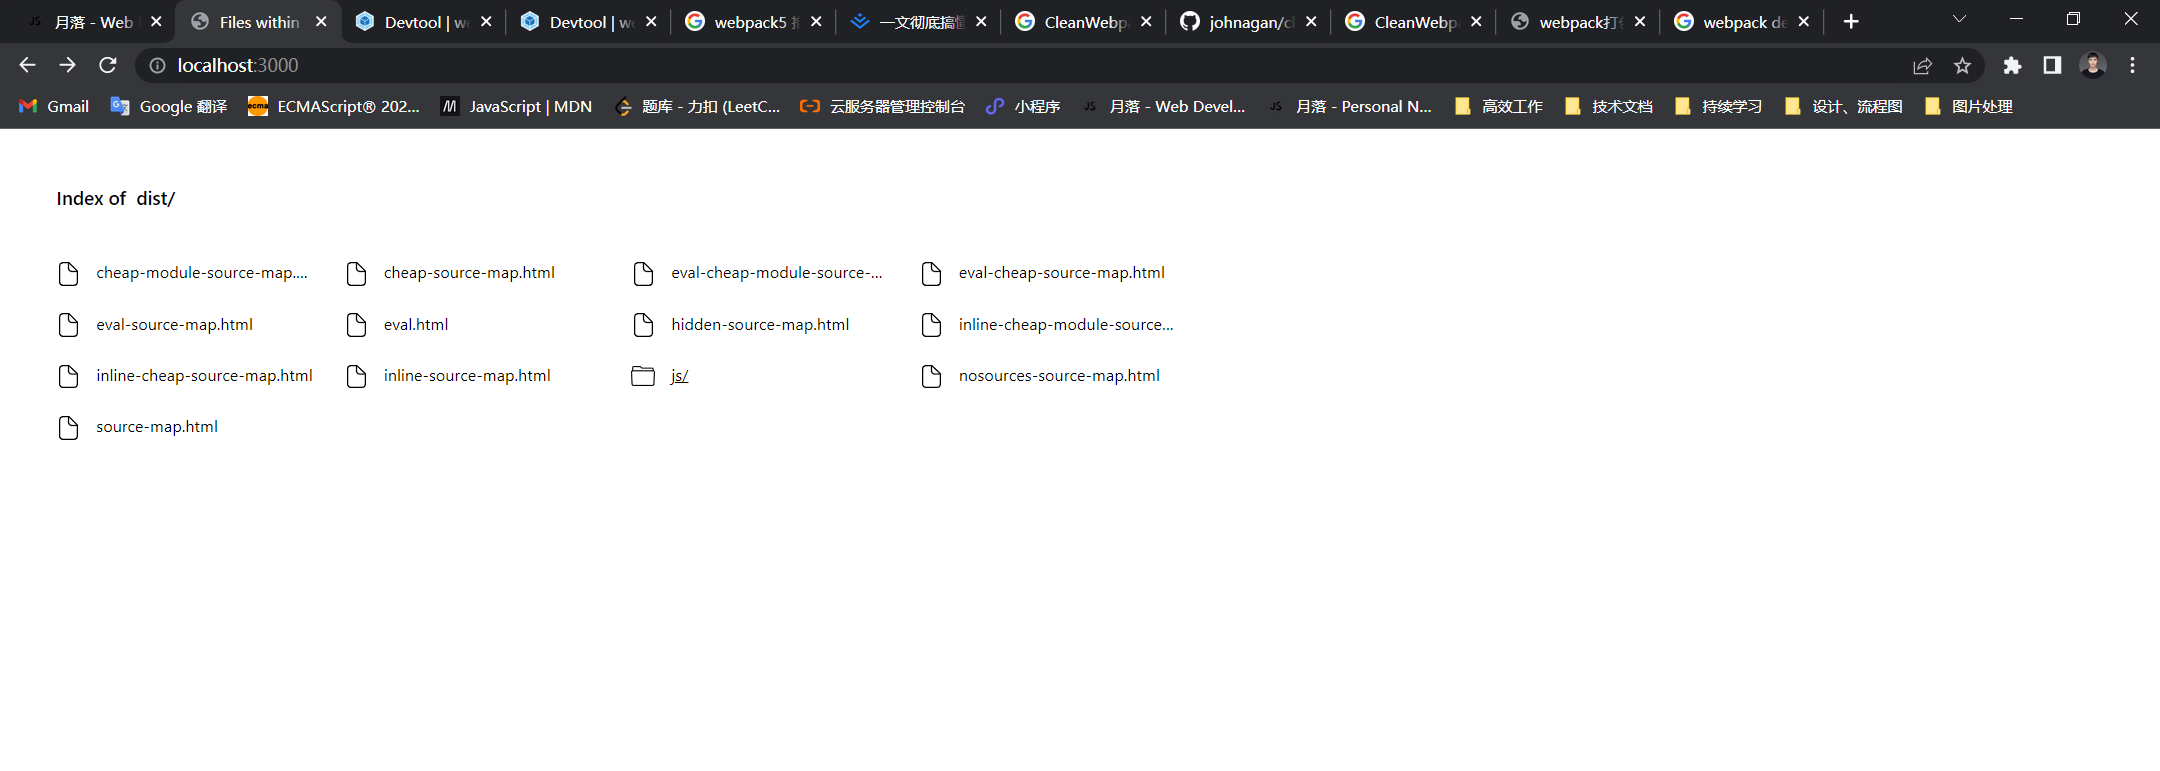
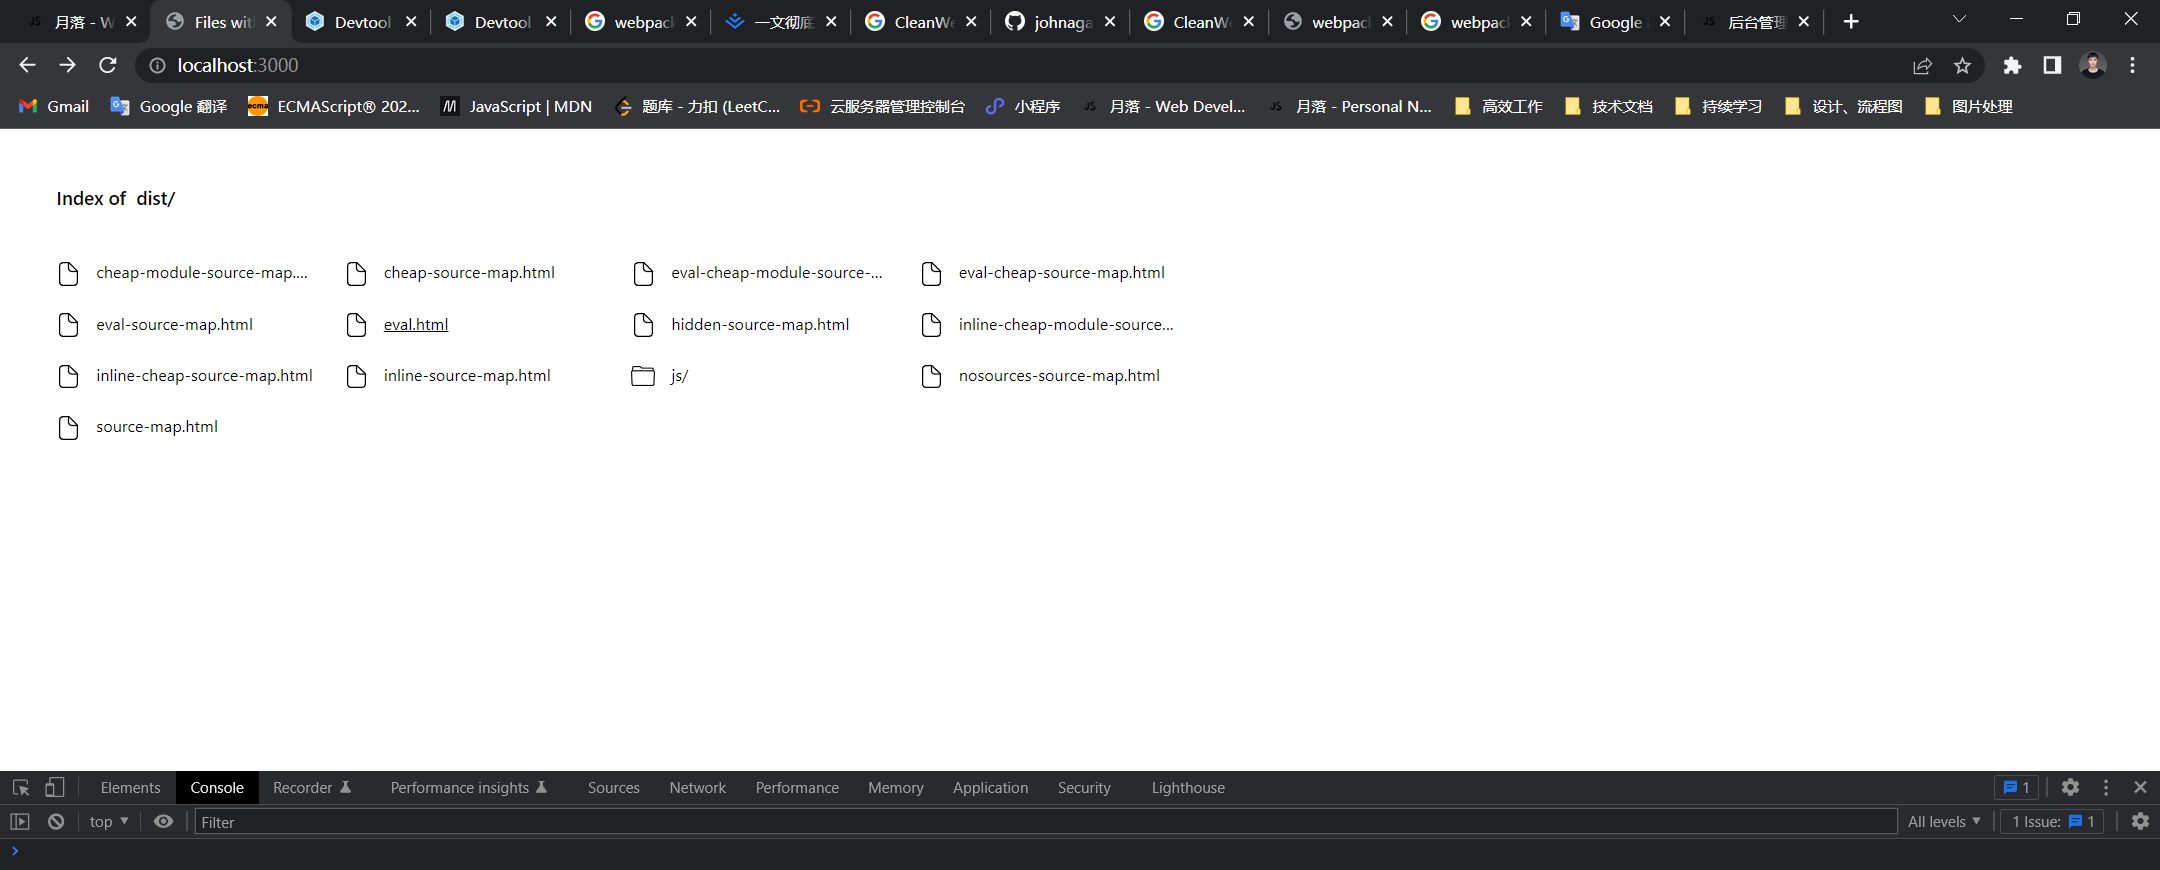
docs: update readme.md

diff --git a/webpack/webpack_5/README.md b/webpack/webpack_5/README.md
@@ -724,7 +724,7 @@ module.exports = allModes.map(mode => merge(baseConfig, {
 
 可以使用 `server dist` 启动 server，预览不同的文件，对比差异。
 
-
+<img src="./images/devtool.png" />
 
 
 
